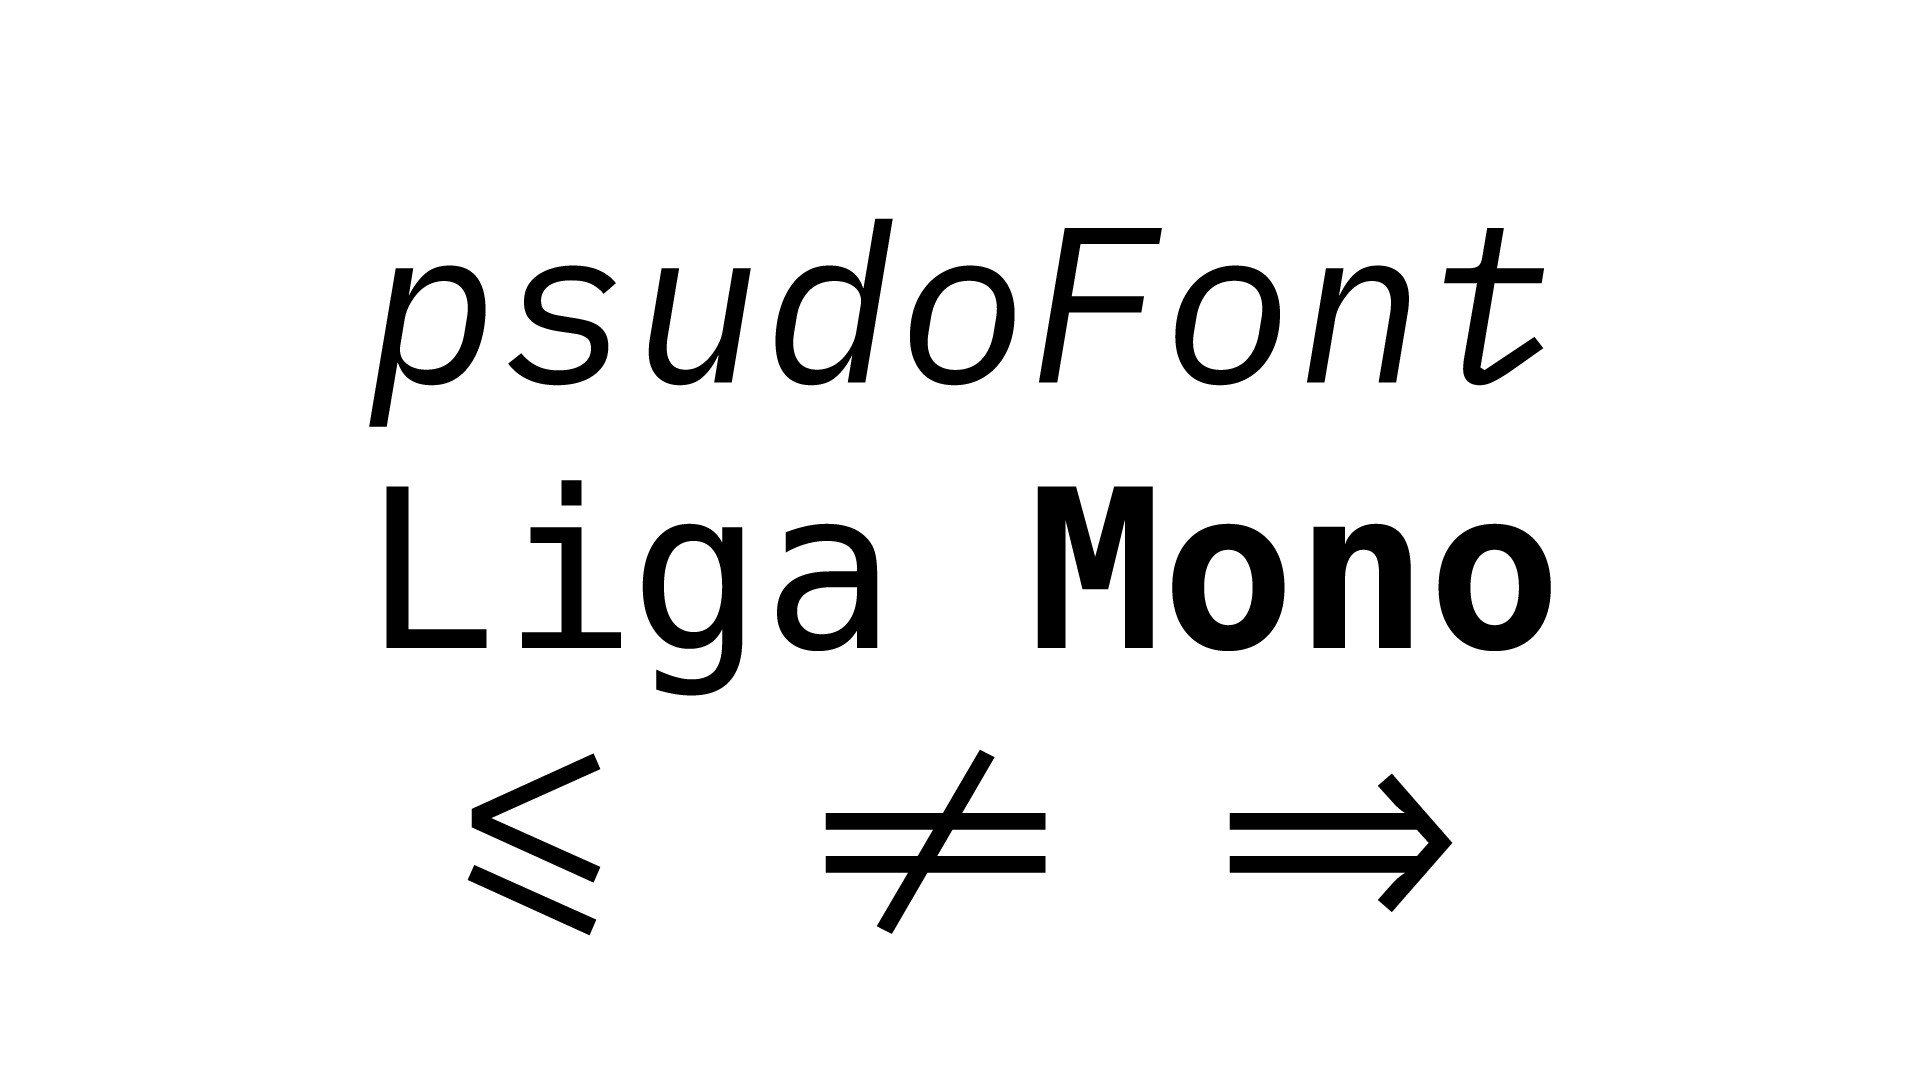
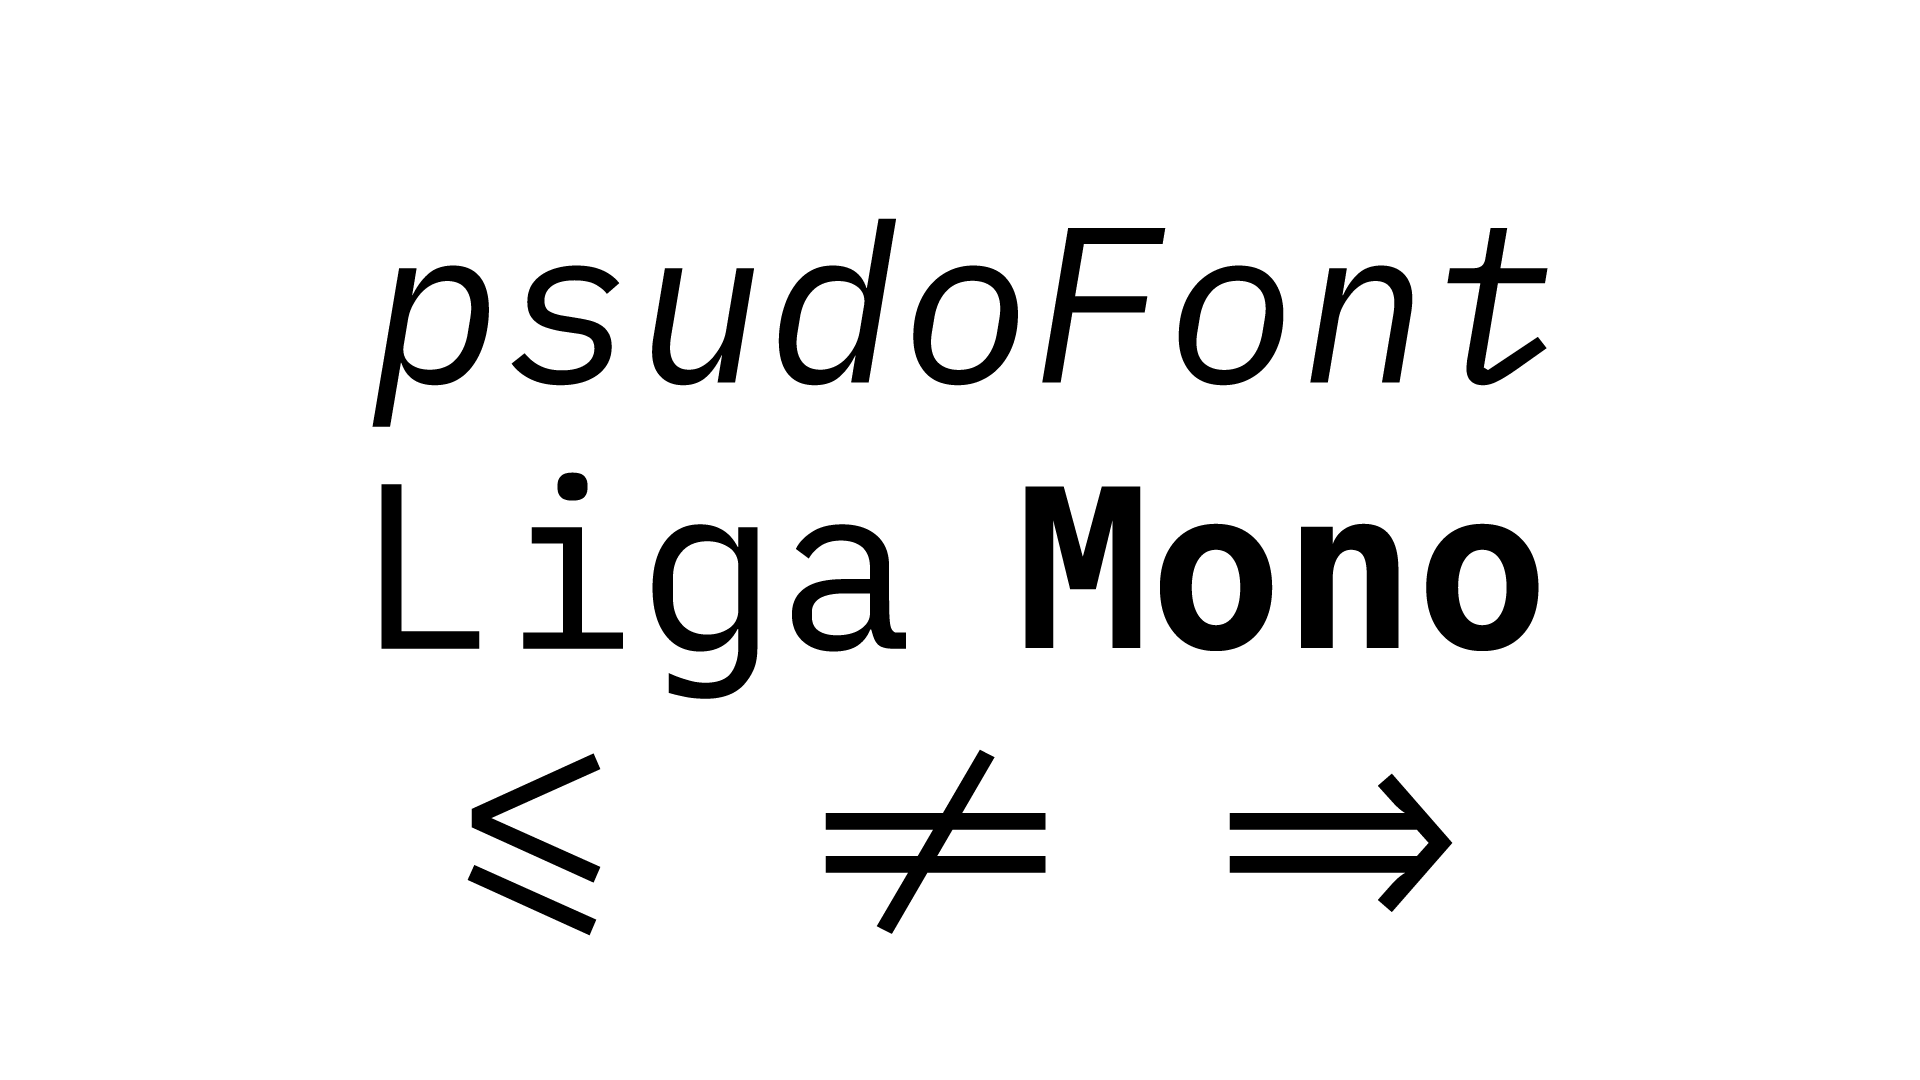
V.2.0.0 update

diff --git a/README.md b/README.md
@@ -1,38 +1,19 @@
 ![psudoFont Liga Mono](./img/psudoFont_Liga_Mono.png)
 
-## Version History
-
-### V.2.0.0 (September, 13th, 2025)
-
-I was naive... I thought I wouldn't actually edit and design glyphs myself, but I was wrong - I underestimated my itch... So here we are, a new version with a lot redesigned characters!
-
-I previously complained that I liked `Menlo/Meslo` but I wanted to make it a bit thinner - like `IBM Plex Mono/Lilex`. So I went ahead and redesigned a lot of glyphs to make it thinner, while still keeping `Menlo/Meslo`'s overall style.
-
-So the `psudoFont Liga Mono Family` is much more cohesive and consistent and now I can say it's actually a Font Family - instead of a Frankenstein Font.
-
-### V.1.0.0 (August, 8th, 2025)
-
-I wanted to use `Menlo/Meslo Regular` but I also wanted `IBM Plex Mono/Lilex Italic`... So what if I mixed and matched these two together?
-
-And that's what I did.
-
-Like so many other things, it started with an itch, and thus, this Frankenstein Font was born. It's aliiiiveeee!
-
-![Hourglass Example](./img/typescript_sample.png)
-<small>(Nebula Oni Theme: Hourglass)</small>
-
 ## psudoFont Liga Mono
+
+`psudoFont Liga Mono` is a `monospaced` font family with `programming ligatures`, based on `Meslo/Menlo` and `IBM Plex Mono/Lilex`. It's designed for coding and terminal use.
 
 This font has two different weights: Regular/Italic (`400`) and Bold/Bold Italic (`700`).
 
-`Regular` and `Italic` have a lot of redesigned glyphs to make them match better together. `Bold` and `Bold Italic` are just a bold version of `Menlo/Meslo` because there was no point in making them thinner and their design already matched the other two - plus, in programming, bold text is not that common.
+A lot of glyphs were redesigned, some resemble `Menlo/Meslo`, some `IBM Plex Mono/Lilex`, and some others are unique to `psudoFont Liga Mono`. The changes and adjustments vary from small details to entire characters but always maintaining core identity within the font family.
 
 ### Installation
 
 1. [Download](https://github.com/psudo-dev/psudofont-liga-mono/releases/download/v.2.0.0/psudoFont_Liga_Mono.zip) and Unzip the file.
 2. Install the font:
-    - Windows: Select all font files in the variable folder, right-click and click Install from the menu.
-    - Mac: Select all font files in the variable folder and double-click them and Install.
+    - Windows: Select all font files in the folder, right-click and click Install from the menu.
+    - Mac: Select all font files in the folder and double-click them and Install.
 
 ### Visual Studio Code
 
@@ -45,30 +26,79 @@ This font has two different weights: Regular/Italic (`400`) and Bold/Bold Italic
     "editor.fontLigatures": true
     ```
 
+## Version History
+
+### V.2.0.0 (September, 13th, 2025)
+
+I was naive... I thought I wouldn't actually edit and design glyphs myself because it would be too much work, but I was wrong - I underestimated my itch... It last a month or so and here we are, a completely new version!
+
+I previously complained that I liked `Menlo/Meslo` but I wanted to make it a bit thinner and that I liked `IBM Plex Mono/Lilex`'s italic but not all of it. So I went ahead and changed all of that.
+
+This version of `psudoFont Liga Mono` is much more cohesive and consistent and now I can say it's actually a Font Family instead of a *Frankenstein* - fused together with multiple fonts...
+
+### V.1.0.0 (August, 8th, 2025)
+
+I wanted to use `Menlo/Meslo Regular` but I also wanted `IBM Plex Mono/Lilex Italic`... So what if I mixed and matched these two together?
+
+And that's what I did.
+
+Like so many other things, it started with an itch, and thus, this *Frankenstein Font* was born. It's aliiiiveeee!
+
 ## Motivation
 
-I've tried several different fonts over the years but I kept using [Meslo](https://github.com/andreberg/Meslo-Font) as my go-to font. For the past few years I've been using the version with ligatures, `Liga Meslo LG M DZ` - which also includes `Powerline` for the Terminal.
+**TL;DR:** It always starts with an itch, usually when something bothers me, the itch grows through time and *sometimes* I end up doing it myself.
 
-I came across `IBM Plex Mono`, I liked its x-height to base ratio, but it wasn't quite it for me. On the other hand, its `italic` was quite different from its `regular` style, it looked elegant, it made me interested in testing it.
+That's how I ended up here, creating my own programming font - same for my VSCode's color theme: [Nebula Oni Theme](https://github.com/psudo-dev/nebula-oni-theme/), the theme used to render the examples [below](#examples).
 
-So I tried using [Lilex](https://github.com/mishamyrt/Lilex) for a bit - which is based on `IBM Plex Mono` but with ligatures - therefore the name, Ligature Plex, Lilex, or so I think.
+---
 
-I liked `Menlo/Meslo`'s style, but I wanted it to be a bit thinner - like `IBM Plex Mono/Lilex`. But I also liked `IBM Plex Mono/Lilex`'s `italic` style - except for just a few characters. So I tried to redesign and edit it in a way that could be seen a seamless blend of what I really wanted, therefore this can be called a new font family.
+I've tried several different fonts over the years but I kept using [Meslo](https://github.com/andreberg/Meslo-Font) as my go-to font. For the past few years I've been using a version with ligatures and powerline: `Liga Meslo LG M DZ`.
+
+I came across `IBM Plex Mono` and I liked its x-height to base ratio, but it wasn't quite it for me, there were some characters and symbols that I didn't quite like. On the other hand, its `italic` was quite different from its `regular` style, it looked elegant, it made me interested in testing it.
+
+I tried using [Lilex](https://github.com/mishamyrt/Lilex) for a bit - which is based on `IBM Plex Mono` but with ligatures - therefore the name, Ligature Plex, Lilex, or so I think.
+
+I think `Meslo/Menlo`'s `regular` look a bit too thick, and although I really liked `IBM Plex Mono/Lilex`'s `italic`, I didn't like it enough to overlook what I didn't like about it, so I ended up switching back to `Meslo/Menlo`.
+
+That, until I started thinking about making my own font design...
 
 ## Design Choices
 
-In the version `V.1.0.0` I just fused together both fonts, using `Meslo Regular` and `Lilex Italic` - while also using `Bold` and `Bold Italic` from `Meslo`. And I thought I would stop there...
+I used `Lilex` as a base because it would be easier than starting from scratch or making all `Meslo` glyphs thinner, plus, I would have to adjust the x-height of all characters of either font.
 
-But now, in version `V.2.0.0`, I redesigned a lot of glyphs, I used `Lilex` as a base, since I liked the fact that it was thinner, but using `Meslo`'s style as reference.
+`Lilex` has 1000UPM, so I scaled up all glyphs to 2048UPM, which seems to be the standard for most new fonts
 
-Then I redesigned some `italic` glyphs to make them match better with the `regular` style. Every character that I didn't like from `Lilex`, I adjusted it - even some details that you can only see in the vector files.
+For `regular` I kept `Meslo` as a reference but there were also some symbols, marks and even small details that I preferred from `Lilex` - like the ending's curves and angles - so I used those as well.
 
-I kept some of the `Lilex` stylistic choices, like the `finial` angle, the beginning of the `bowl`, the thickness of the `stem` but also some measurements and proportions in a way that it would still match the other glyphs that I didn't change. I also adjusted some right-angled parts into rounded curves. Everything that I felt like it would make the font family more cohesive and consistent throughout all the different weights and styles.
+`Lilex`'s `italic` had a lot of sharp corners, so I redesigned them all to be more rounded and smooth. This small detail made me redesigned lots of glyphs. I also changed some characters like `w`, `v`, `r`, `{`, `}`, `@`, `5`, `6`, `9`, etc. Actually, I had to change the numbers in both `regular` and `italic`.
 
-This is still within the initial idea of mixing and matching two different fonts, taking the parts that I like from each of them, but this time, instead of just putting them together as-is, I went a few steps further, making this font family something different from the fonts that inspired it, but still keeping the essence and style of what I liked from each of them.
+Another thing that I didn't like about `Liga Meslo LG M DZ` were the ligatures combinations for `fi`, `ffi`, `fl`, `ffl`, etc. They get too close together, I don't like how it looks. So I'm not supporting these ligatures.
+
+`Meslo` had almost double the glyphs compared to `Lilex` - which already had more than 1400 glyphs -, and it wouldn't be viable for me to redesign and adjust all these extra characters, so I didn't. They don't affect the overall use, it still supports all `Lilex` ligatures and symbols and some extras I included.
+
+Considering that when this all started I didn't know how to edit a single glyph, all the hustle in between and 3 redesigns later, I would say I liked the final result. Although inspired by `Meslo` and `Lilex`, this turned out to be its own unique font family.
+
+## Examples
+
+Click on the images to see a larger version with more details, the low-res image rendering is pretty bad for texts with dark backgrounds.
+
+- TypeScript
+
+![Hourglass Example](./img/typescript_sample.png)
+<small>(Nebula Oni Theme: Hourglass/Grey)</small>
+
+- Python
 
 ![Hourglass Example](./img/python_sample.png)
-<small>(Nebula Oni Theme: Cerberus)</small>
+<small>(Nebula Oni Theme: Cerberus/Glacial Blue)</small>
+
+- C
+![Hourglass Example](./img/c_sample.png)
+<small>(Nebula Oni Theme: Spirograph/Purple)</small>
+
+- Terminal
+![Terminal Example](./img/terminal_sample.png)
+<small>(Nebula Oni Theme)</small>
 
 ## License
 
@@ -76,23 +106,15 @@ This project is licensed under the SIL Open Font License, Version 1.1. See the [
 
 ## Credits
 
-The version that I based on for Meslo is called `Liga Meslo LG M DZ`. It's a patched version of a patched version. It was patched to include `Powerline` glyphs, and then it was patched again to include ligatures. And unfortunately, I couldn't track down who did what for each patch, only the original author.
-
-![Terminal Example](./img/terminal_sample.png)
-
-The original `Meslo LG` is a customized version of Apple’s `Menlo` font, which on the other hand is based on the open-source font `Bitstream Vera` and the public domain `DejaVu`. While `Lilex` is an extended font on top of `IBM Plex Mono`.
-
 -   [Meslo LG](https://github.com/andreberg/Meslo-Font)
--   [Lilex](https://github.com/mishamyrt/Lilex)
--   [IBM Plex Mono](https://github.com/IBM/plex).
 -   Menlo
 -   Vera Sans Mono
 -   DejaVu Mono
+-   [Lilex](https://github.com/mishamyrt/Lilex)
+-   [IBM Plex Mono](https://github.com/IBM/plex).
+
+The original `Meslo LG` is a customized version of Apple’s `Menlo` font, which on the other hand is based on the open-source font `Bitstream Vera` and the public domain `DejaVu`. `Lilex` is an extended font on top of `IBM Plex Mono`.
 
 ### Author
 
 -   [@psudo-dev](https://github.com/psudo-dev/)
-
-<={}[]==!==&&===new=>()Gorgonzola Métrica Ijiya
-
-<!-- newgate viral dexter -->
